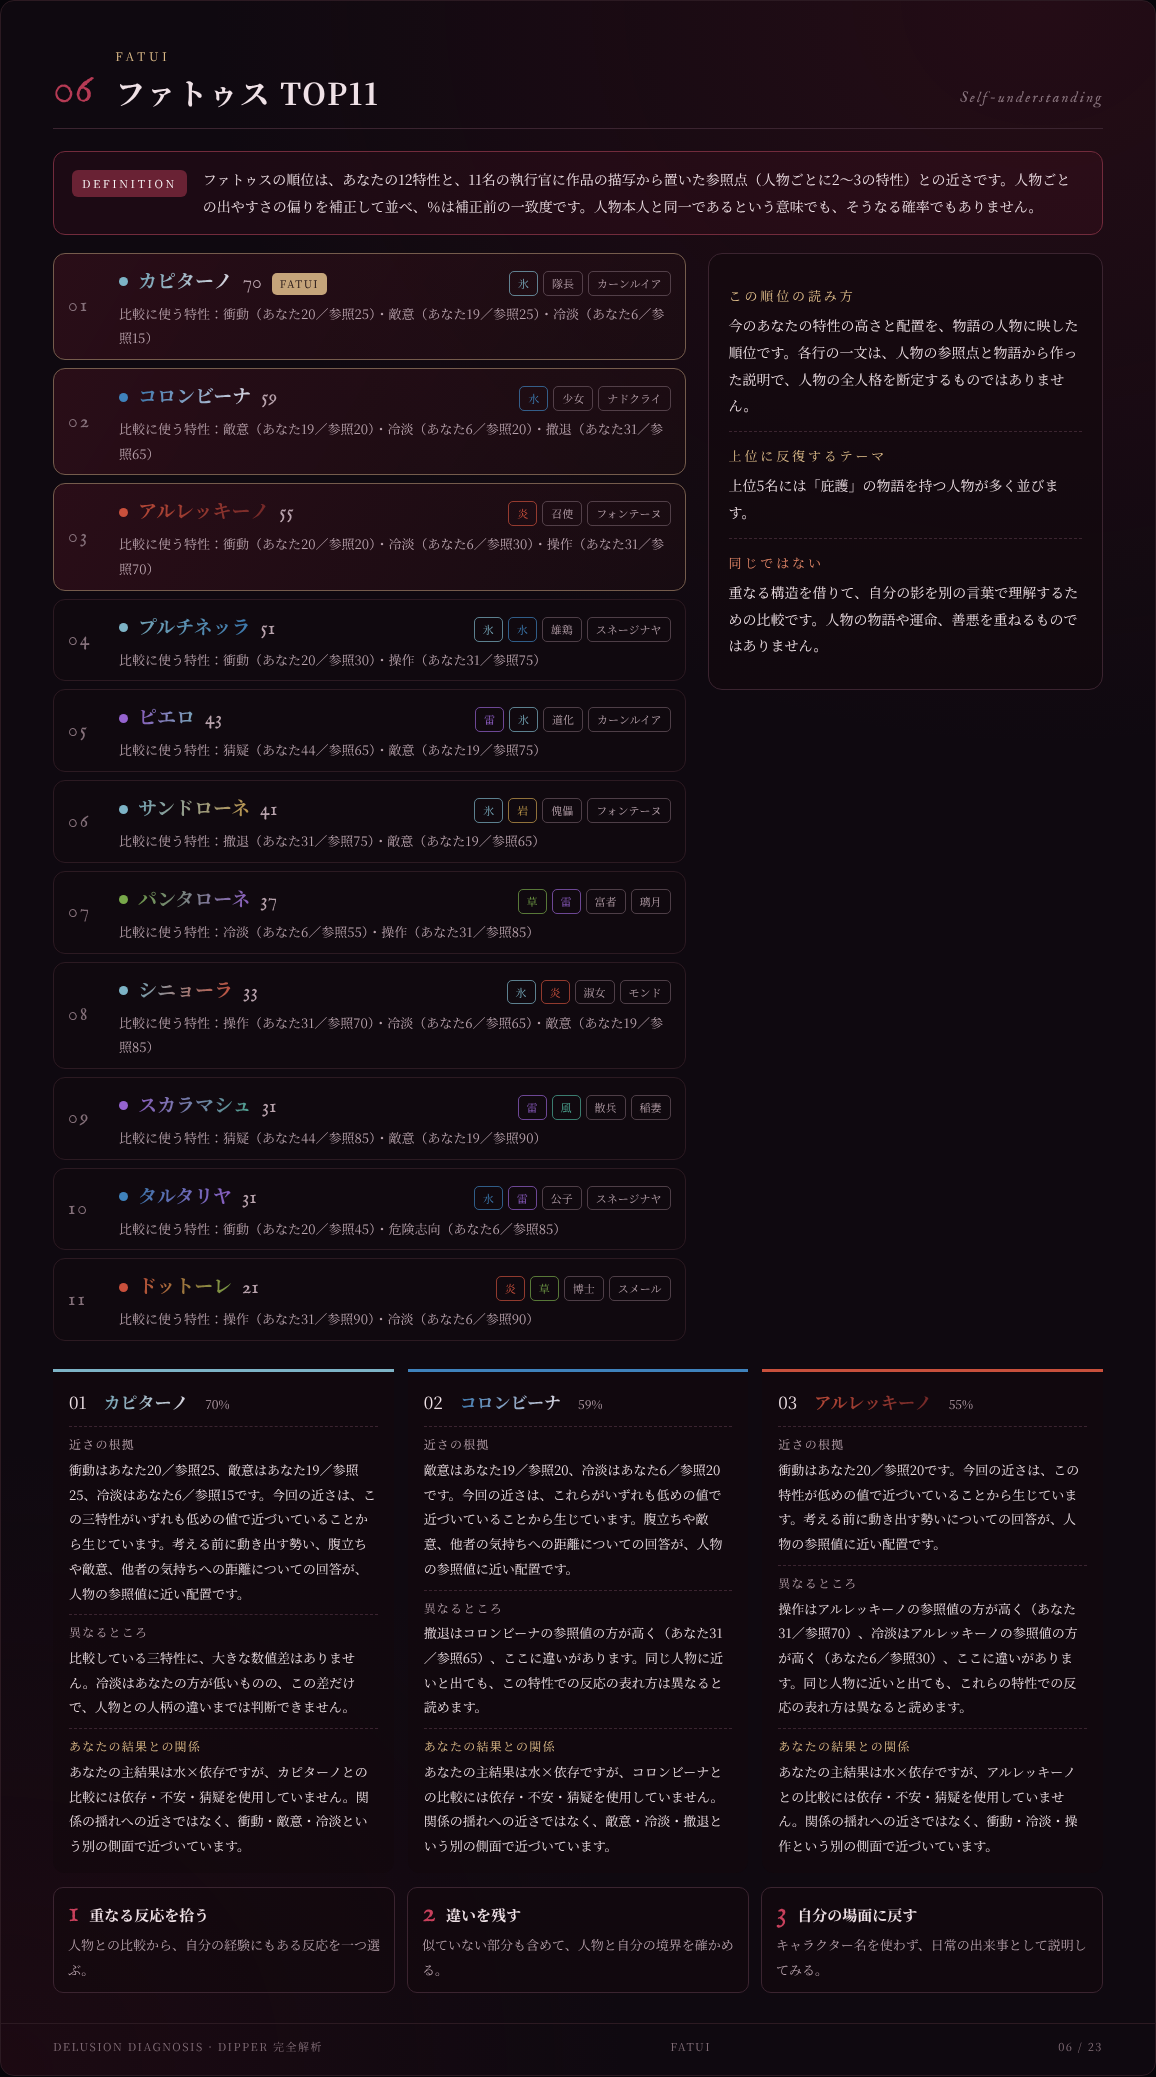
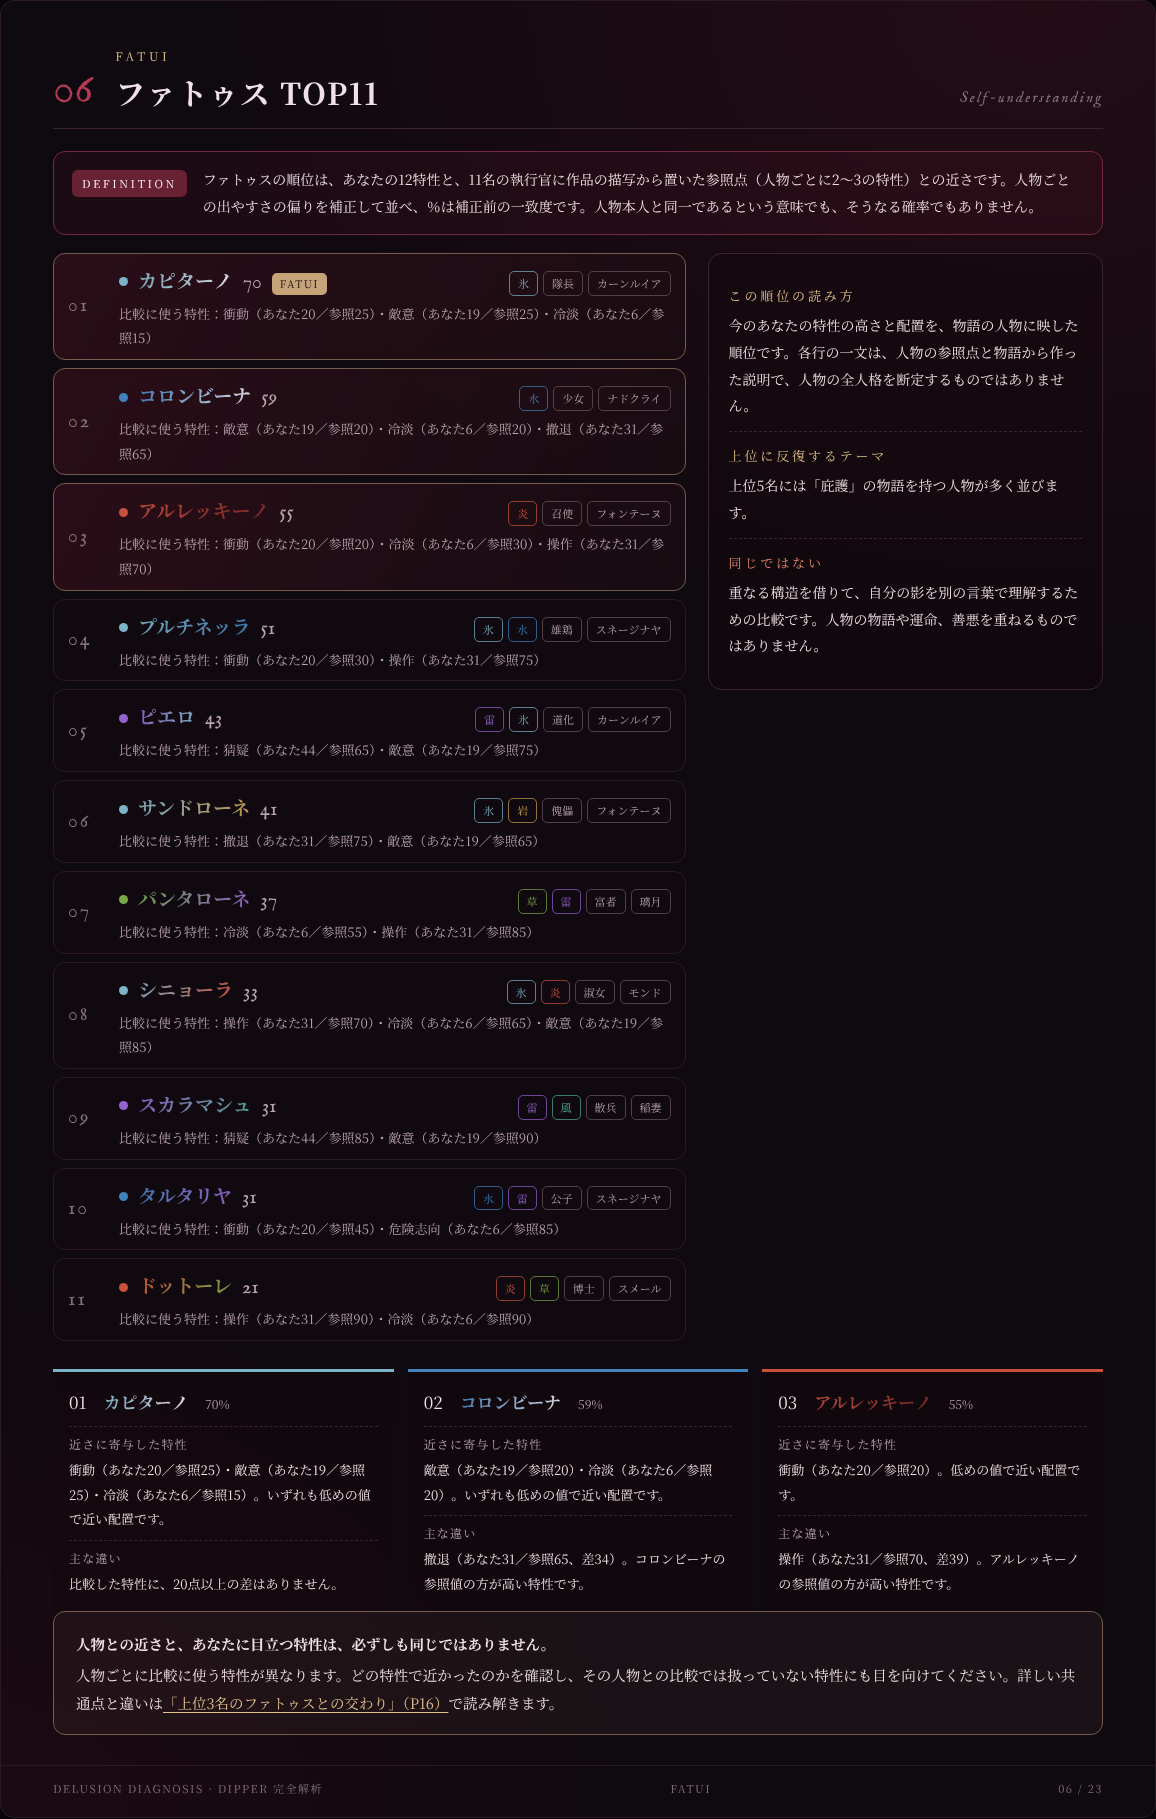
邪眼完全解析 DIPPER：06＝比較の要点（近さに寄与した特性・主な違い・16へのリンク）、16＝人物の描写（作品の描写と DTI の参照を区別）・重なる・異なる・邪眼／異相・自分に戻す問い（三人で重ならない）。「算出の重み」に表記を統一
Claude-Session: https://claude.ai/code/session_01G98Q4k59pxprHjFdWRszS7

diff --git a/jagan/complete/complete.css b/jagan/complete/complete.css
@@ -336,3 +336,5 @@ body.dp { margin: 0; background: var(--bg); color: var(--fg); font-family: 'Noto
 .dp-fsteps { display: grid; grid-template-columns: repeat(3, minmax(0, 1fr)); gap: 12px; margin-top: 14px; }
 .dp-fsteps div { border: 1px solid var(--line2); border-radius: 10px; padding: 10px 14px; background: rgba(18,9,14,.6); } .dp-fsteps b { font-size: 15px; } .dp-fsteps p { margin: 4px 0 0; font-size: 13px; color: var(--sub); }
 @media (max-width: 760px) { .dp-flowrow, .dp-c3, .dp-fsteps { grid-template-columns: 1fr; } }
+.dp-xref { color: var(--gold); text-decoration: underline; text-underline-offset: 3px; }
+.dp-mtag { display: inline-block; font-size: 11px; letter-spacing: .1em; padding: 0 7px; margin-right: 8px; border-radius: 4px; border: 1px solid var(--line2); color: var(--sub); } .dp-mtag.dti { border-color: color-mix(in srgb, var(--gold) 45%, transparent); color: #e8d2ad; }
